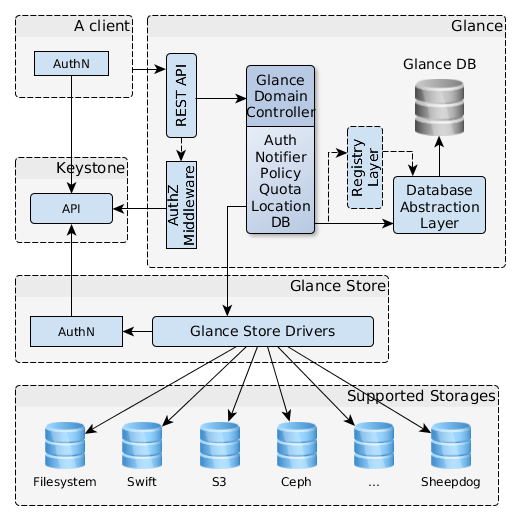
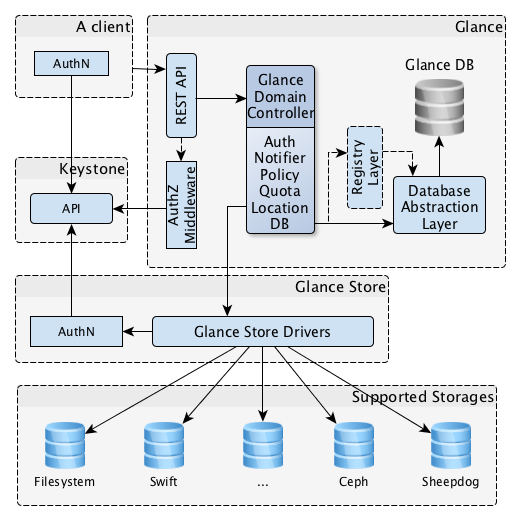
Remove references of s3 store driver
As we are removing the s3 driver from source tree per change
I032b0fc16400cbd2112687d38e010128be699221 , it seems right to remove the
references of the same in the glance tree.

Updated here are files that referenced s3; these files include:

    * documentation files
    * documentation of the glance architecture (source and png files)
    * config help text
    * stores associated with location strategy
    * tests

UpgradeImpact

Depends-On: I032b0fc16400cbd2112687d38e010128be699221
Depends-On: I5d2da0611365b838f41285b64cdcfef9adf50e85

diff --git a/glance/tests/unit/common/test_location_strategy.py b/glance/tests/unit/common/test_location_strategy.py
@@ -158,11 +158,10 @@ class TestStoreTypeStrategyModule(base.IsolatedUnitTest):
 
     def test_get_ordered_locations(self):
         self.config(store_type_preference=['  rbd', 'sheepdog ', ' filesystem',
-                                           'swift  ', '  http  ', 's3'],
+                                           'swift  ', '  http  '],
                     group='store_type_location_strategy')
         locs = [{'url': 'file://image0', 'metadata': {'idx': 3}},
                 {'url': 'rbd://image1', 'metadata': {'idx': 0}},
-                {'url': 's3://image2', 'metadata': {'idx': 7}},
                 {'url': 'file://image3', 'metadata': {'idx': 4}},
                 {'url': 'swift://image4', 'metadata': {'idx': 6}},
                 {'url': 'cinder://image5', 'metadata': {'idx': 8}},
@@ -176,15 +175,14 @@ class TestStoreTypeStrategyModule(base.IsolatedUnitTest):
 
     def test_get_ordered_locations_with_invalid_store_name(self):
         self.config(store_type_preference=['  rbd', 'sheepdog ', 'invalid',
-                                           'swift  ', '  http  ', 's3'],
+                                           'swift  ', '  http  '],
                     group='store_type_location_strategy')
-        locs = [{'url': 'file://image0', 'metadata': {'idx': 5}},
+        locs = [{'url': 'file://image0', 'metadata': {'idx': 4}},
                 {'url': 'rbd://image1', 'metadata': {'idx': 0}},
-                {'url': 's3://image2', 'metadata': {'idx': 4}},
-                {'url': 'file://image3', 'metadata': {'idx': 6}},
+                {'url': 'file://image3', 'metadata': {'idx': 5}},
                 {'url': 'swift://image4', 'metadata': {'idx': 3}},
-                {'url': 'cinder://image5', 'metadata': {'idx': 7}},
-                {'url': 'file://image6', 'metadata': {'idx': 8}},
+                {'url': 'cinder://image5', 'metadata': {'idx': 6}},
+                {'url': 'file://image6', 'metadata': {'idx': 7}},
                 {'url': 'rbd://image7', 'metadata': {'idx': 1}},
                 {'url': 'sheepdog://image8', 'metadata': {'idx': 2}}]
         ordered_locs = store_type.get_ordered_locations(copy.deepcopy(locs))

diff --git a/glance/common/config.py b/glance/common/config.py
@@ -159,7 +159,7 @@ common_opts = [
                        'connections.')),
     cfg.StrOpt('metadata_encryption_key', secret=True,
                help=_('AES key for encrypting store \'location\' metadata. '
-                      'This includes, if used, Swift or S3 credentials. '
+                      'This includes, if used, Swift credentials. '
                       'Should be set to a random string of length 16, 24 or '
                       '32 bytes')),
     cfg.StrOpt('digest_algorithm', default='sha256',

diff --git a/glance/tests/unit/common/scripts/test_scripts_utils.py b/glance/tests/unit/common/scripts/test_scripts_utils.py
@@ -120,10 +120,6 @@ class TestScriptsUtils(test_utils.BaseTestCase):
         self.assertRaises(urllib.error.URLError,
                           script_utils.validate_location_uri, location)
 
-        location = 's3+https://'
-        self.assertRaises(urllib.error.URLError,
-                          script_utils.validate_location_uri, location)
-
         location = 'rbd://'
         self.assertRaises(urllib.error.URLError,
                           script_utils.validate_location_uri, location)

diff --git a/glance/common/store_utils.py b/glance/common/store_utils.py
@@ -118,7 +118,7 @@ def validate_external_location(uri):
     """
     Validate if URI of external location are supported.
 
-    Only over non-local store types are OK, i.e. S3, Swift,
+    Only over non-local store types are OK, i.e. Swift,
     HTTP. Note the absence of 'file://' for security reasons,
     see LP bug #942118, 1400966, 'swift+config://' is also
     absent for security reasons, see LP bug #1334196.

diff --git a/glance/tests/unit/v2/test_tasks_resource.py b/glance/tests/unit/v2/test_tasks_resource.py
@@ -371,7 +371,6 @@ class TestTasksController(test_utils.BaseTestCase):
         wrong_import_from = [
             "swift://cloud.foo/myaccount/mycontainer/path",
             "file:///path",
-            "s3://accesskey:secretkey@s3.amazonaws.com/bucket/key-id",
             "cinder://volume-id"
         ]
         executor_factory = self.gateway.get_task_executor_factory(

diff --git a/glance/common/location_strategy/store_type.py b/glance/common/location_strategy/store_type.py
@@ -57,7 +57,6 @@ def init():
     mapping = {'filesystem': ['file', 'filesystem'],
                'http': ['http', 'https'],
                'rbd': ['rbd'],
-               's3': ['s3', 's3+http', 's3+https'],
                'swift': ['swift', 'swift+https', 'swift+http'],
                'sheepdog': ['sheepdog'],
                'cinder': ['cinder'],

diff --git a/glance/tests/functional/store_utils.py b/glance/tests/functional/store_utils.py
@@ -15,7 +15,7 @@
 #    under the License.
 
 """
-Utility methods to set testcases up for Swift and/or S3 tests.
+Utility methods to set testcases up for Swift tests.
 """
 
 from __future__ import print_function

diff --git a/doc/source/configuring.rst b/doc/source/configuring.rst
@@ -119,9 +119,8 @@ An example usage would be:
 
   $ ls /etc/glance/glance-api.d
    00-core.conf
-   01-s3.conf
-   02-swift.conf
-   03-ssl.conf
+   01-swift.conf
+   02-ssl.conf
    ... etc.
 
 The numeric prefixes in the example above are only necessary if a specific
@@ -419,7 +418,7 @@ Optional. Default: ``file``
 Can only be specified in configuration files.
 
 Sets the storage backend to use by default when storing images in Glance.
-Available options for this option are (``file``, ``swift``, ``s3``, ``rbd``,
+Available options for this option are (``file``, ``swift``, ``rbd``,
 ``sheepdog``, ``cinder`` or ``vsphere``). In order to select a default store
 it must also be listed in the ``stores`` list described below.
 
@@ -428,7 +427,7 @@ it must also be listed in the ``stores`` list described below.
 Optional. Default: ``file, http``
 
 A comma separated list of enabled glance stores. Some available options for
-this option are (``filesystem``, ``http``, ``rbd``, ``s3``, ``swift``,
+this option are (``filesystem``, ``http``, ``rbd``, ``swift``,
 ``sheepdog``, ``cinder``, ``vmware_datastore``)
 
 Configuring the Filesystem Storage Backend
@@ -869,128 +868,6 @@ In the reference, a user can specify the following parameters:
   Optional. Default: ``None``
 
   `This option can be specified if ``auth_version`` is ``3``. `
-
-Configuring the S3 Storage Backend
-~~~~~~~~~~~~~~~~~~~~~~~~~~~~~~~~~~
-
-* ``s3_store_host=URL``
-
-Required when using the S3 storage backend.
-
-Can only be specified in configuration files.
-
-`This option is specific to the S3 storage backend.`
-
-Default: s3.amazonaws.com
-
-Sets the main service URL supplied to S3 when making calls to its storage
-system. For more information about the S3 authentication system, please
-see the `S3 documentation <http://aws.amazon.com/documentation/s3/>`_
-
-* ``s3_store_access_key=ACCESS_KEY``
-
-Required when using the S3 storage backend.
-
-Can only be specified in configuration files.
-
-`This option is specific to the S3 storage backend.`
-
-Sets the access key to authenticate against the ``s3_store_host`` with.
-
-You should set this to your 20-character Amazon AWS access key.
-
-* ``s3_store_secret_key=SECRET_KEY``
-
-Required when using the S3 storage backend.
-
-Can only be specified in configuration files.
-
-`This option is specific to the S3 storage backend.`
-
-Sets the secret key to authenticate against the
-``s3_store_host`` with for the access key ``s3_store_access_key``.
-
-You should set this to your 40-character Amazon AWS secret key.
-
-* ``s3_store_bucket=BUCKET``
-
-Required when using the S3 storage backend.
-
-Can only be specified in configuration files.
-
-`This option is specific to the S3 storage backend.`
-
-Sets the name of the bucket to use for Glance images in S3.
-
-Note that the namespace for S3 buckets is **global**,
-therefore you must use a name for the bucket that is unique. It
-is recommended that you use a combination of your AWS access key,
-**lowercased** with "glance".
-
-For instance if your Amazon AWS access key is:
-
-``ABCDEFGHIJKLMNOPQRST``
-
-then make your bucket value be:
-
-``abcdefghijklmnopqrstglance``
-
-* ``s3_store_create_bucket_on_put``
-
-Optional. Default: ``False``
-
-Can only be specified in configuration files.
-
-`This option is specific to the S3 storage backend.`
-
-If true, Glance will attempt to create the bucket ``s3_store_bucket``
-if it does not exist.
-
-* ``s3_store_object_buffer_dir=PATH``
-
-Optional. Default: ``the platform's default temporary directory``
-
-Can only be specified in configuration files.
-
-`This option is specific to the S3 storage backend.`
-
-When sending images to S3, what directory should be
-used to buffer the chunks? By default the platform's
-temporary directory will be used.
-
-* ``s3_store_large_object_size=SIZE_IN_MB``
-
-Optional. Default: ``100``
-
-Can only be specified in configuration files.
-
-`This option is specific to the S3 storage backend.`
-
-Size, in ``MB``, should S3 start chunking image files
-and do a multipart upload in S3.
-
-* ``s3_store_large_object_chunk_size=SIZE_IN_MB``
-
-Optional. Default: ``10``
-
-Can only be specified in configuration files.
-
-`This option is specific to the S3 storage backend.`
-
-Multipart upload part size, in ``MB``, should S3 use
-when uploading parts. The size must be greater than or
-equal to 5MB. The default is 10MB.
-
-* ``s3_store_thread_pools=NUM``
-
-Optional. Default: ``10``
-
-Can only be specified in configuration files.
-
-`This option is specific to the S3 storage backend.`
-
-The number of thread pools to perform a multipart upload
-in S3. The default is 10.
 
 Configuring the RBD Storage Backend
 ~~~~~~~~~~~~~~~~~~~~~~~~~~~~~~~~~~~

diff --git a/doc/source/architecture.rst b/doc/source/architecture.rst
@@ -57,7 +57,7 @@ but are not extensively tested upstream.
          exclusively makes use of each of the storage systems in the
          Supported Storages block.  Within the Supported Storages block,
          there exist the following storage systems, none of which make use
-         of anything else: Filesystem, Swift, S3, Ceph, "ellipses", Sheepdog.
+         of anything else: Filesystem, Swift, Ceph, "ellipses", Sheepdog.
          A complete list is given by the currently  available drivers in
          glance_store/_drivers.
 

diff --git a/doc/source/glanceapi.rst b/doc/source/glanceapi.rst
@@ -496,7 +496,7 @@ The list of metadata headers that Glance accepts are listed below.
 
 * ``x-image-meta-store``
 
-  This header is optional. Valid values are one of ``file``, ``s3``, ``rbd``,
+  This header is optional. Valid values are one of ``file``, ``rbd``,
   ``swift``, ``cinder``, ``sheepdog`` or ``vsphere``.
 
   When present, Glance will attempt to store the disk image data in the
